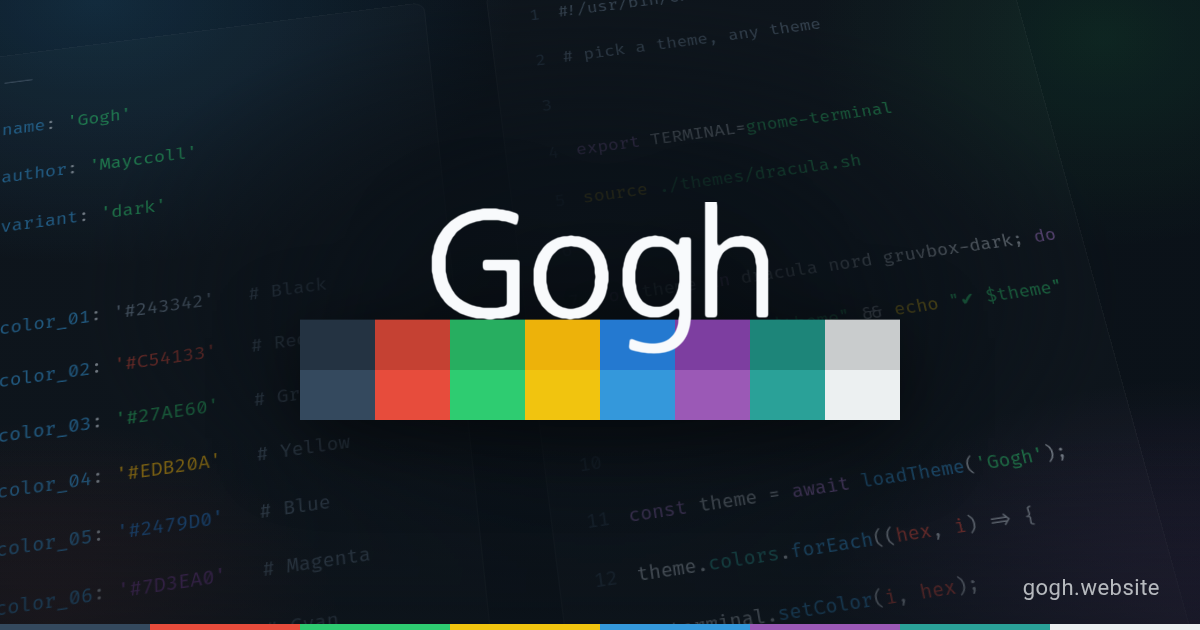
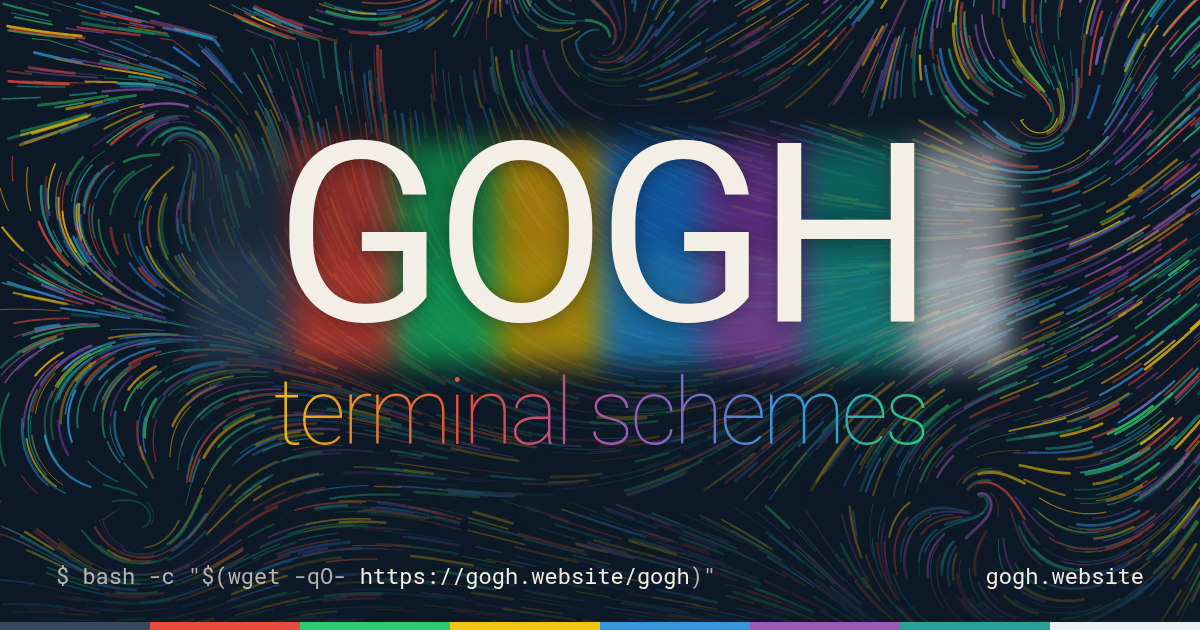
feat(seo): redesigned share image and share buttons in the footer
- New og-image.png in the redesign's look (painted strokes, GOGH wordmark
  over the blurred logo bar), with its HTML source in scripts/og-image.
- Bump the image version and update its alt text.
- Footer gets a 'Share Gogh' row (X, Facebook, LinkedIn, Reddit, Bluesky,
  WhatsApp, Telegram, copy link) for the current page, reusing the theme
  share buttons tinted with the Gogh palette.

diff --git a/scripts/og-image/og-image.html b/scripts/og-image/og-image.html
@@ -1,0 +1,92 @@
+<!doctype html>
+<!--
+  Source of public/og-image.png (1200x630 social share card).
+  Re-render from the repo root, then bump SITE_IMAGE's ?v= in app/utils/site.ts:
+    google-chrome --headless=new --hide-scrollbars --allow-file-access-from-files \
+      --force-device-scale-factor=1 --window-size=1200,630 --virtual-time-budget=3000 \
+      --screenshot=public/og-image.png "file://$PWD/scripts/og-image/og-image.html"
+    optipng -o2 public/og-image.png
+-->
+<html>
+<head>
+<meta charset="utf-8">
+<style>
+@font-face { font-family: 'Roboto'; font-weight: 100; src: url('../../node_modules/@fontsource/roboto/files/roboto-latin-100-normal.woff2') format('woff2'); }
+@font-face { font-family: 'Roboto'; font-weight: 400; src: url('../../node_modules/@fontsource/roboto/files/roboto-latin-400-normal.woff2') format('woff2'); }
+@font-face { font-family: 'Roboto'; font-weight: 700; src: url('../../node_modules/@fontsource/roboto/files/roboto-latin-700-normal.woff2') format('woff2'); }
+@font-face { font-family: 'Roboto Mono'; font-weight: 400; src: url('../../node_modules/@fontsource/roboto-mono/files/roboto-mono-latin-400-normal.woff2') format('woff2'); }
+
+html, body { margin: 0; width: 1200px; height: 630px; overflow: hidden; background: #0D1926; }
+.card { position: relative; width: 1200px; height: 630px; overflow: hidden; background: #0D1926; color: #F4EFE6; font-family: 'Roboto', sans-serif; isolation: isolate; }
+canvas { position: absolute; inset: 0; }
+.veil { position: absolute; inset: 0; background:
+    radial-gradient(58% 70% at 50% 46%, rgba(13,25,38,0.92) 0%, rgba(13,25,38,0.6) 48%, transparent 80%),
+    linear-gradient(180deg, transparent 70%, rgba(13,25,38,0.9) 100%); }
+.glow { position: absolute; left: 50%; top: 254px; width: 820px; height: 220px; transform: translate(-50%, -50%);
+    display: grid; grid-template-columns: repeat(8, 1fr); grid-template-rows: repeat(2, 1fr);
+    filter: blur(15px) saturate(1.2); opacity: 0.62; }
+.content { position: absolute; inset: 0; display: flex; flex-direction: column; align-items: center; justify-content: center; padding-bottom: 40px; }
+.word { font-weight: 400; font-size: 250px; line-height: 0.84; letter-spacing: -0.04em; text-shadow: 0 2px 20px rgba(10,15,20,0.45); }
+.sub { margin-top: 26px; font-weight: 100; font-size: 92px; line-height: 1; letter-spacing: -0.04em;
+    background: linear-gradient(100deg, #F1C40F, #E74C3C 30%, #9B59B6 55%, #3498DB 80%, #2ECC71);
+    -webkit-background-clip: text; background-clip: text; color: transparent; }
+.foot { position: absolute; left: 56px; right: 56px; bottom: 40px; display: flex; justify-content: space-between; align-items: center;
+    font-family: 'Roboto Mono', monospace; font-size: 22px; color: rgba(244,239,230,0.72); }
+.foot b { color: #F4EFE6; font-weight: 400; }
+.bar { position: absolute; left: 0; right: 0; bottom: 0; height: 8px; display: grid; grid-template-columns: repeat(8, 1fr); }
+</style>
+</head>
+<body>
+<div class="card">
+    <canvas id="c" width="1200" height="630"></canvas>
+    <div class="veil"></div>
+    <div class="glow" id="glow"></div>
+    <div class="content">
+        <div class="word">GOGH</div>
+        <div class="sub">terminal schemes</div>
+    </div>
+    <div class="foot"><span>$ bash -c "$(wget -qO- <b>https://gogh.website/gogh</b>)"</span><span><b>gogh.website</b></span></div>
+    <div class="bar" id="bar"></div>
+</div>
+<script>
+const LOGO = ['#243342','#C54133','#27AE60','#EDB20A','#2479D0','#7D3EA0','#1D8579','#C9CCCD',
+              '#34495E','#E74C3C','#2ECC71','#F1C40F','#3498DB','#9B59B6','#2AA198','#ECF0F1'];
+for (const c of LOGO) { const s = document.createElement('span'); s.style.background = c; document.getElementById('glow').appendChild(s); }
+for (const c of LOGO.slice(8)) { const s = document.createElement('span'); s.style.background = c; document.getElementById('bar').appendChild(s); }
+
+// Painted night sky: short strokes following a swirling flow field, like the hero canvas.
+let seed = 7;
+const rand = () => ((seed = (seed * 16807) % 2147483647) / 2147483647);
+const PALETTE = ['#C54133','#27AE60','#EDB20A','#2479D0','#7D3EA0','#1D8579','#E74C3C','#2ECC71','#F1C40F','#3498DB','#9B59B6','#2AA198'];
+const ctx = document.getElementById('c').getContext('2d');
+const W = 1200, H = 630;
+const swirls = [[180, 150, 1], [1040, 120, -1], [980, 500, 1], [140, 520, -1], [600, 40, -1]];
+function angle(x, y) {
+    let a = Math.sin(x * 0.004) * 1.2 + Math.cos(y * 0.005) * 1.1;
+    for (const [sx, sy, dir] of swirls) {
+        const dx = x - sx, dy = y - sy, d = Math.hypot(dx, dy);
+        const w = Math.exp(-d / 170);
+        a = a * (1 - w) + (Math.atan2(dy, dx) + dir * Math.PI / 2) * w;
+    }
+    return a;
+}
+ctx.lineCap = 'round';
+for (let i = 0; i < 2600; i++) {
+    let x = rand() * W, y = rand() * H;
+    const color = PALETTE[Math.floor(rand() * PALETTE.length)];
+    const steps = 10 + Math.floor(rand() * 22);
+    ctx.strokeStyle = color;
+    ctx.globalAlpha = 0.35 + rand() * 0.5;
+    ctx.lineWidth = 0.8 + rand() * 2.2;
+    ctx.beginPath();
+    ctx.moveTo(x, y);
+    for (let s = 0; s < steps; s++) {
+        const a = angle(x, y);
+        x += Math.cos(a) * 2.4; y += Math.sin(a) * 2.4;
+        ctx.lineTo(x, y);
+    }
+    ctx.stroke();
+}
+</script>
+</body>
+</html>

diff --git a/app/components/Terminal/ThemeShareButtons.vue b/app/components/Terminal/ThemeShareButtons.vue
@@ -1,6 +1,6 @@
 <template>
-    <div class="share">
-        <div class="share-buttons" role="group" :aria-label="`Share ${themeName}`">
+    <div class="share" :class="{ 'share--start': align === 'start' }">
+        <div class="share-buttons" role="group" :aria-label="`Share ${themeName || 'Gogh'}`">
             <a
                 v-for="network in networks"
                 :key="network.id"
@@ -33,7 +33,7 @@
             <span class="share-buttons__status" role="status" aria-live="polite">{{ copied ? 'Link copied' : '' }}</span>
         </div>
 
-        <nav class="share-previews" aria-label="Preview the share card">
+        <nav v-if="previews" class="share-previews" aria-label="Preview the share card">
             <span class="share-previews__label">Preview card</span>
             <template v-for="(tool, index) in previewTools" :key="tool.id">
                 <span v-if="index" class="share-previews__sep" aria-hidden="true">·</span>
@@ -69,6 +69,16 @@ const props = defineProps({
     url: {
         type: String,
         default: '',
+    },
+    // The "Preview card" debugger links under the icons.
+    previews: {
+        type: Boolean,
+        default: true,
+    },
+    // 'center' (lightbox, theme page) or 'start' (footer).
+    align: {
+        type: String,
+        default: 'center',
     },
 });
 
@@ -184,6 +194,15 @@ onBeforeUnmount(() => clearTimeout(copiedTimer));
 // page's filter buttons. px: this site's rem is 10px.
 .share {
     margin: 0 0 24px;
+}
+
+.share--start {
+    margin: 0;
+
+    .share-buttons,
+    .share-previews {
+        justify-content: flex-start;
+    }
 }
 
 .share-buttons {

diff --git a/app/components/Footer/Footer.vue b/app/components/Footer/Footer.vue
@@ -8,6 +8,11 @@
                         <svg viewBox="0 0 24 24" width="16" height="16" aria-hidden="true"><path fill="currentColor" d="m5.825 21l1.625-7.025L2 9.25l7.2-.625L12 2l2.8 6.625l7.2.625l-5.45 4.725L18.175 21L12 17.275z"/></svg>
                         Star Gogh on GitHub
                     </a>
+
+                    <div class="gogh-footer__share">
+                        <span class="gogh-footer__col-title">Share Gogh</span>
+                        <ThemeShareButtons :url="shareUrl" :theme="GOGH_SHARE_THEME" :previews="false" align="start" />
+                    </div>
                 </div>
 
                 <nav class="gogh-footer__col" aria-label="Explore">
@@ -67,6 +72,19 @@
 </template>
 
 <script setup>
+import ThemeShareButtons from '@/components/Terminal/ThemeShareButtons.vue';
+
+// Share buttons for whatever page is open, tinted with the Gogh palette
+// (the buttons pick each network's colour from a theme's ANSI slots).
+const GOGH_SHARE_THEME = {
+    background: '#0A0F14',
+    foreground: '#ECF0F1',
+    ...Object.fromEntries(GOGH_LOGO_COLORS.map((color, index) => [`color_${String(index + 1).padStart(2, '0')}`, color])),
+};
+
+const route = useRoute();
+const shareUrl = computed(() => canonicalUrl(route.path));
+
 const PALETTE = [
     '#243342', '#C54133', '#27AE60', '#EDB20A', '#2479D0', '#7D3EA0', '#1D8579', '#C9CCCD',
     '#34495E', '#E74C3C', '#2ECC71', '#F1C40F', '#3498DB', '#9B59B6', '#2AA198', '#ECF0F1',

diff --git a/app/utils/site.ts b/app/utils/site.ts
@@ -1,10 +1,10 @@
 export const SITE_URL = 'https://gogh.website';
 export const SITE_NAME = 'Gogh';
 // Bump ?v= whenever og-image.png changes: social networks cache the image by URL.
-export const SITE_IMAGE = `${SITE_URL}/og-image.png?v=2`;
+export const SITE_IMAGE = `${SITE_URL}/og-image.png?v=3`;
 export const SITE_IMAGE_WIDTH = 1200;
 export const SITE_IMAGE_HEIGHT = 630;
-export const SITE_IMAGE_ALT = 'Gogh logo and 16-color palette over syntax-highlighted code';
+export const SITE_IMAGE_ALT = 'GOGH terminal schemes wordmark over the Gogh color palette and painted, swirling brushstrokes';
 export const SITE_DESCRIPTION = 'Terminal color schemes for Linux, macOS and Windows: GNOME Terminal, Konsole, Alacritty, Kitty, Ghostty, WezTerm, iTerm2, Tilix, Mintty and more.';
 export const SITE_AUTHOR = {
     name: 'Miguel D. Quintero',

diff --git a/app/components/Footer/Footer.scss b/app/components/Footer/Footer.scss
@@ -70,6 +70,14 @@
     }
 }
 
+// "Share Gogh": the page's share buttons under the star CTA.
+.gogh-footer__share {
+    display: flex;
+    flex-direction: column;
+    gap: 14px;
+    margin-top: 36px;
+}
+
 .gogh-footer__col {
     display: flex;
     flex-direction: column;
